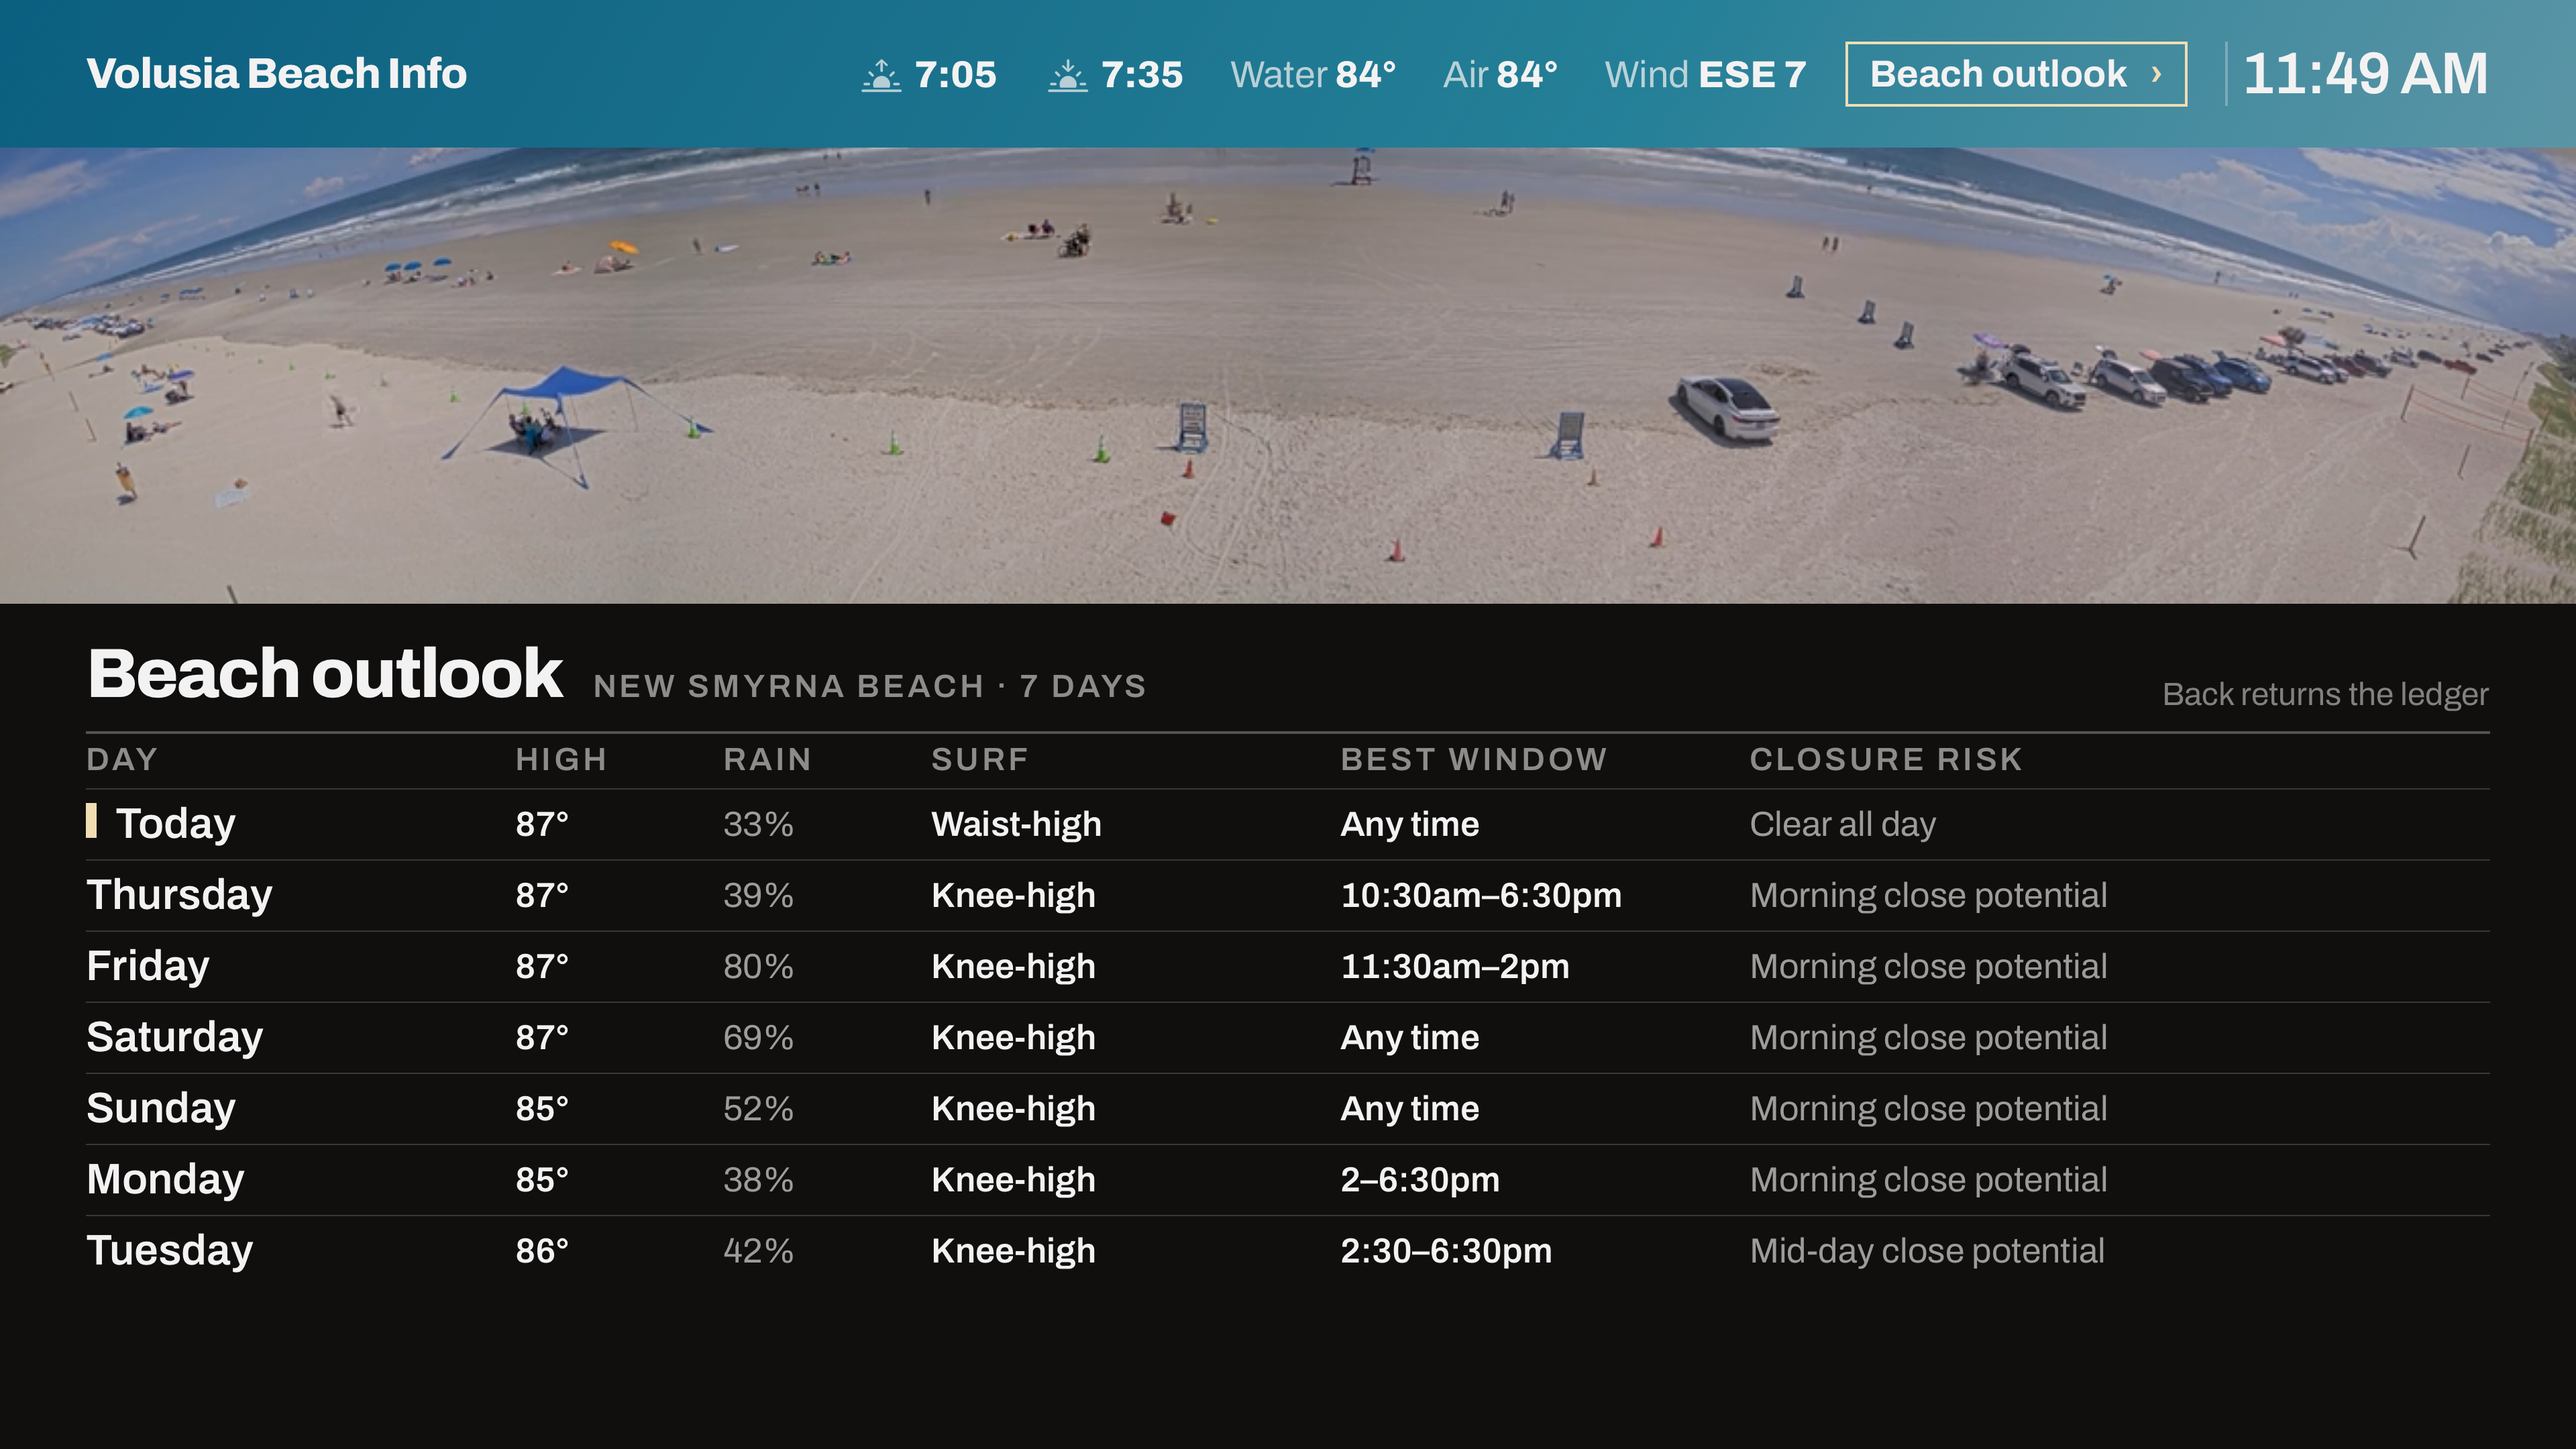
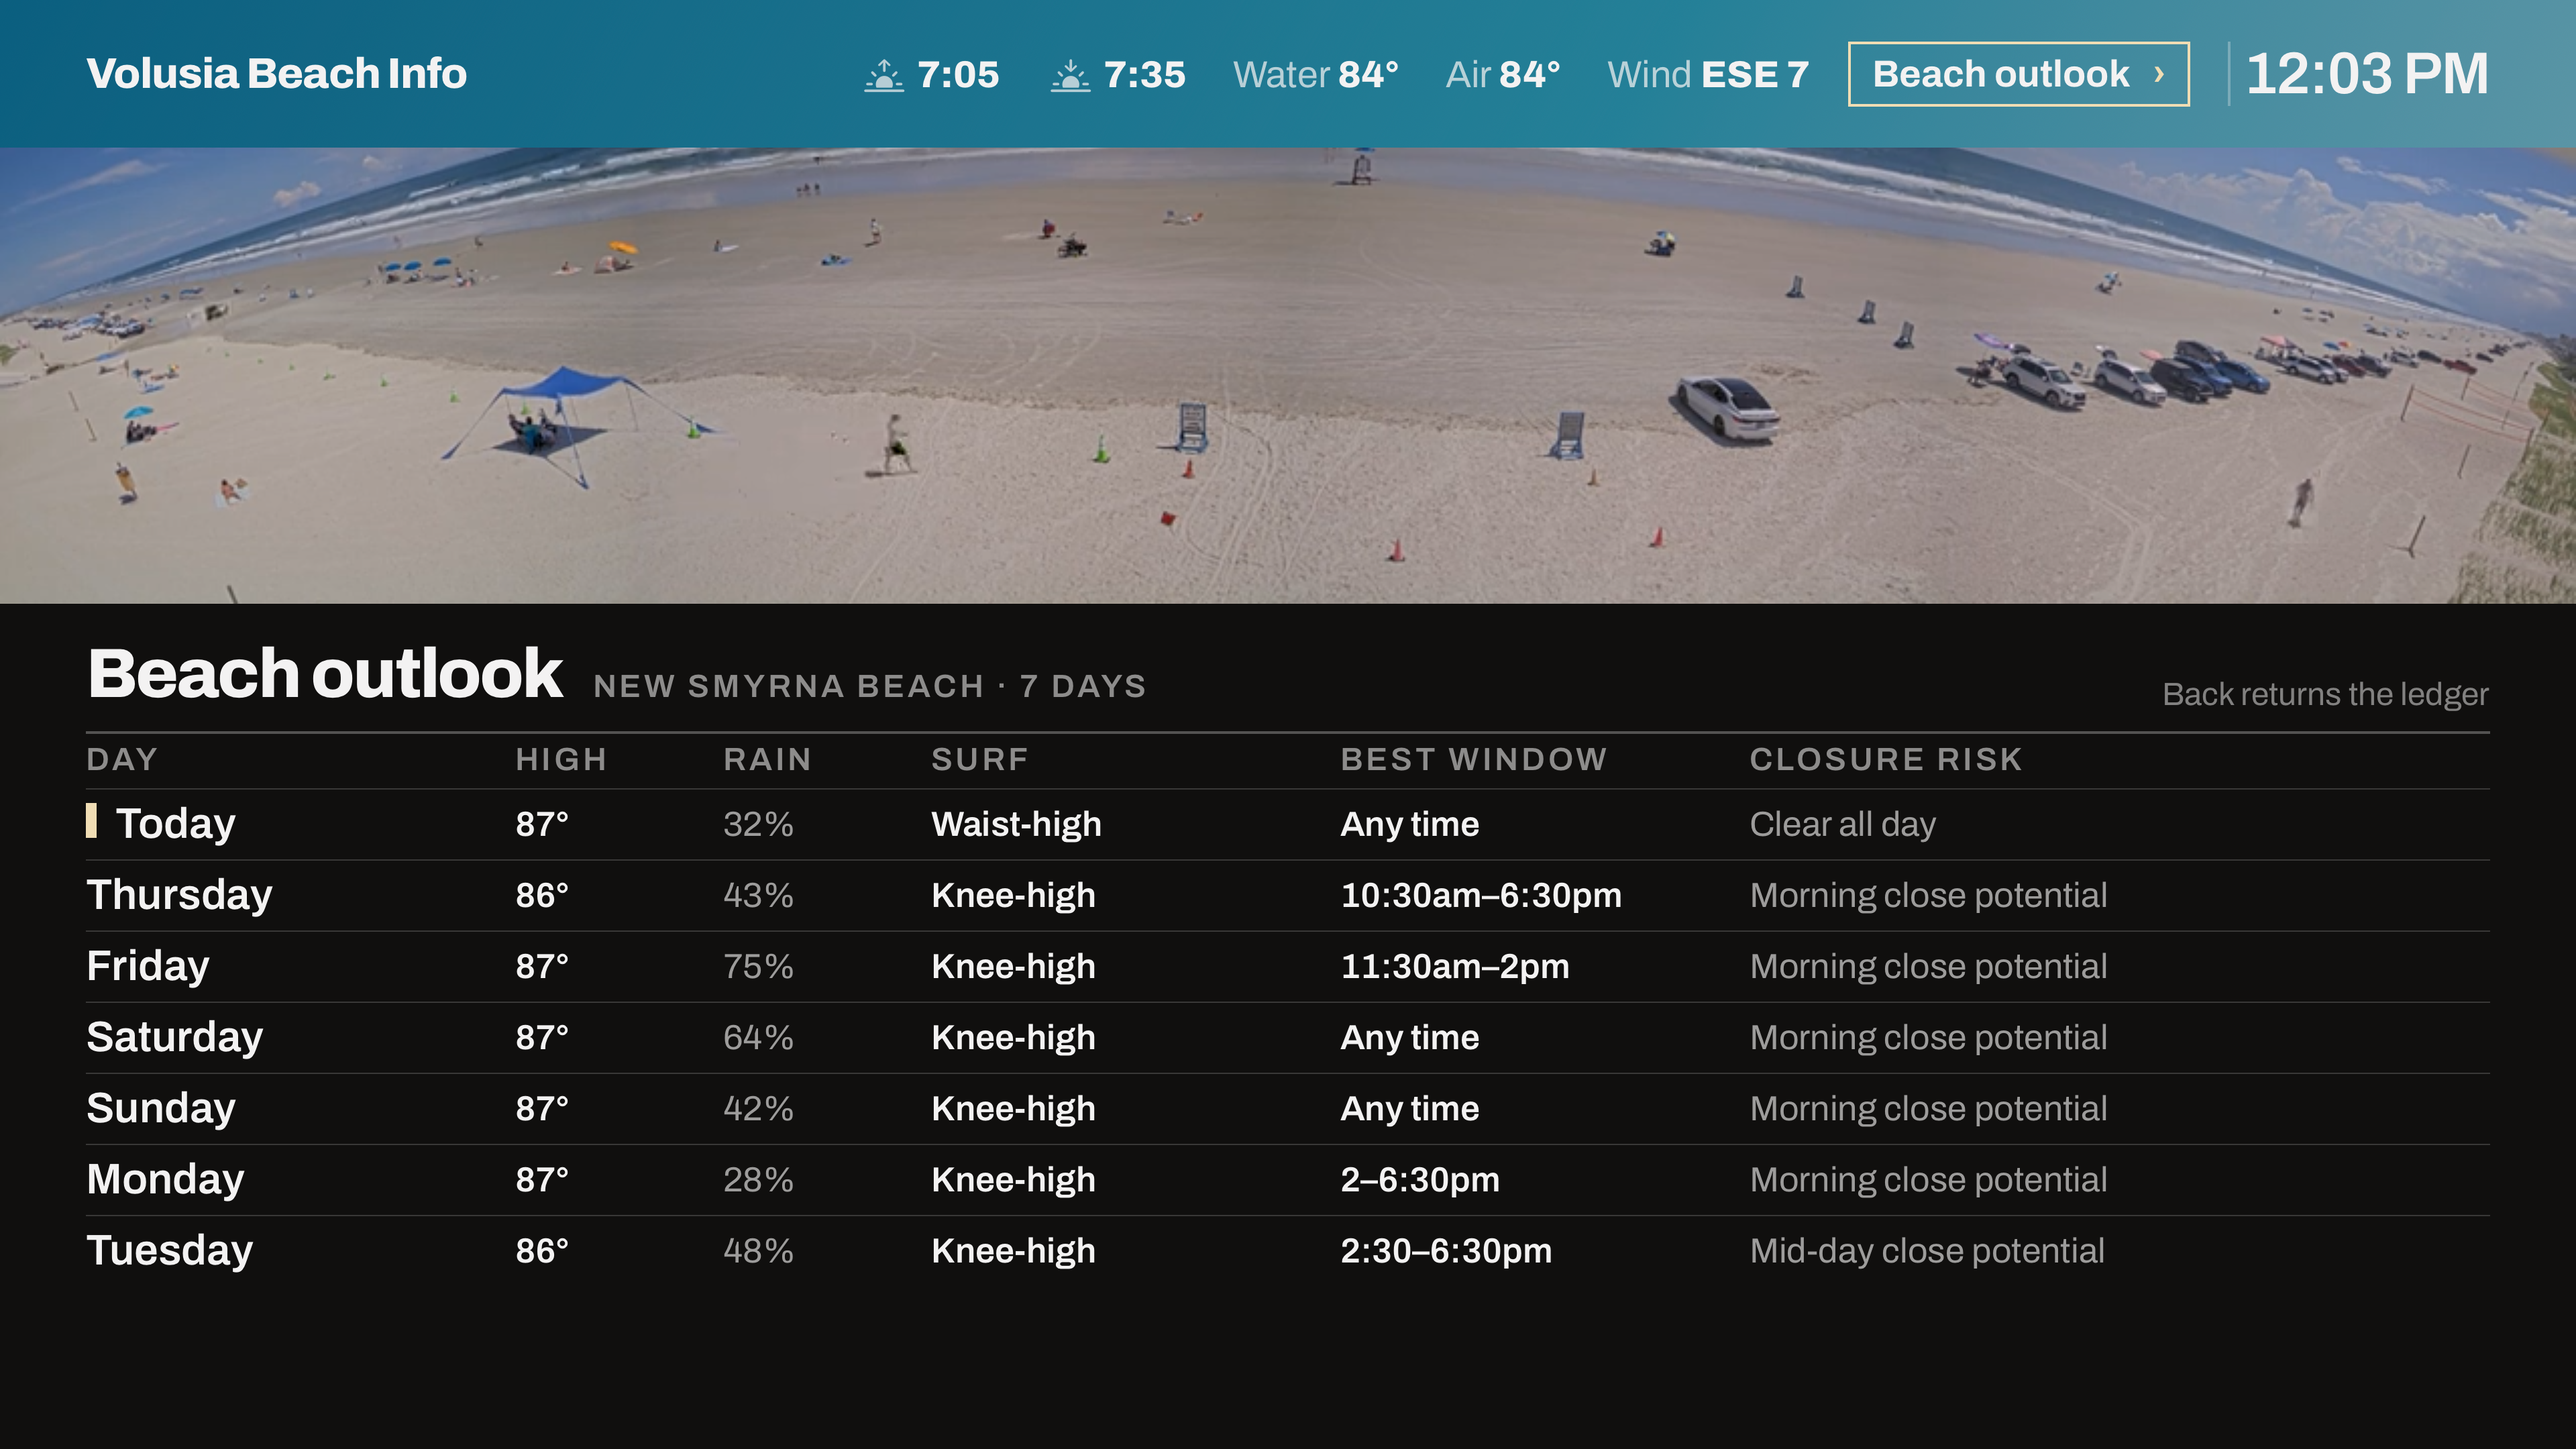
Reshoot the Apple TV gallery on the city-scoped surf line
Same three 3840×2160 shots, captured 12:03 ET against prod after 78e515c
deployed: the ramp-detail surface now reads "…tide-closed right now in
Daytona" under an open New Smyrna ramp. Status + listing doc note the
reshoot and the remaining one-row truncation on the board's surf headline.

diff --git a/PORTFOLIO-STATUS.md b/PORTFOLIO-STATUS.md
@@ -115,11 +115,17 @@ last_verified: 2026-09-09 midday (DISPATCH 2026-09-09-newbeach-tvos-13-and-listi
   eyeballed); tvOS 1.3 What's New drafted; the App Store listing is now LINKED from
   beach.donwb.com — board footer (web/js/views/board.js, sw cache v27) and a "Get the
   app" section + footer link on /support, plain text links, zero JS. Don's press:
-  submit tvOS 1.3 (30) in ASC with the new gallery. Side finding, not acted on: the
-  surf line's ramp-access clause is county-wide (surfreport.go: "…but ramps are
-  tide-closed right now" while DB-051/DBS-067/DBS-076 were shut) and sits under the
-  per-city "Every ramp open" verdict on the tvOS board — reads contradictory on the
-  same screen; it is in the new 01-board shot. Prior 2026-09-01 state below.)
+  submit tvOS 1.3 (30) in ASC with the new gallery. Follow-up the same hour, at Don's
+  direction: the surf line's ramp-access clause was county-wide (surfreport.go: "…but
+  ramps are tide-closed right now" while only DB-051 was tide-closed) and sat under
+  the per-city "Every ramp open" verdict on the tvOS board. FIXED 78e515c — tideClause
+  now names the affected cities in local shorthand, up the coast ("…tide-closed right
+  now in Daytona", "closure's possible around 1pm in NSB"), county-wide wording only
+  when every city has a ramp in the tier; server-side copy, so build 30 renders it.
+  Deployed, verified live, Apple TV gallery RESHOT 12:03 ET on the fixed line (the
+  ramp-detail shot shows it in full; the board shot's one-row surf headline still
+  truncates at "tide-closed…" — a tvOS layout limit, would need a client change +
+  flight to lift). Prior 2026-09-01 state below.)
 prior_2026_09_01: (iOS 1.2 (28) SUBMITTED in ASC by Don — the update
   review — with the redrafted description, 1.0→1.2 What's New, and the 8/23
   iPhone/iPad screenshots; all five shots eyeballed pre-submit, sky-label/clock

diff --git a/docs/APP-STORE-LISTING.md b/docs/APP-STORE-LISTING.md
@@ -395,9 +395,10 @@ unchanged from tvOS 1.0.
 
 ### Screenshots
 
-**Apple TV recaptured 2026-09-09** for the 1.3 submission
+**Apple TV recaptured 2026-09-09 ~12:03 ET** for the 1.3 submission
 (`apple/scripts/screenshots.sh tv`, Apple TV 4K (3rd generation) sim against
-prod, 3840×2160, all three verified by eye):
+prod, 3840×2160, all three verified by eye; reshot after 78e515c so the surf
+line names where the tide closures are instead of contradicting the NSB verdict):
 
 - `appletv/01-board.png` — the ledger: sunrise/sunset in the header, "Every ramp
   open" verdict with the tide wave and now-line beside it, NSB ramps, surf, weekend.
